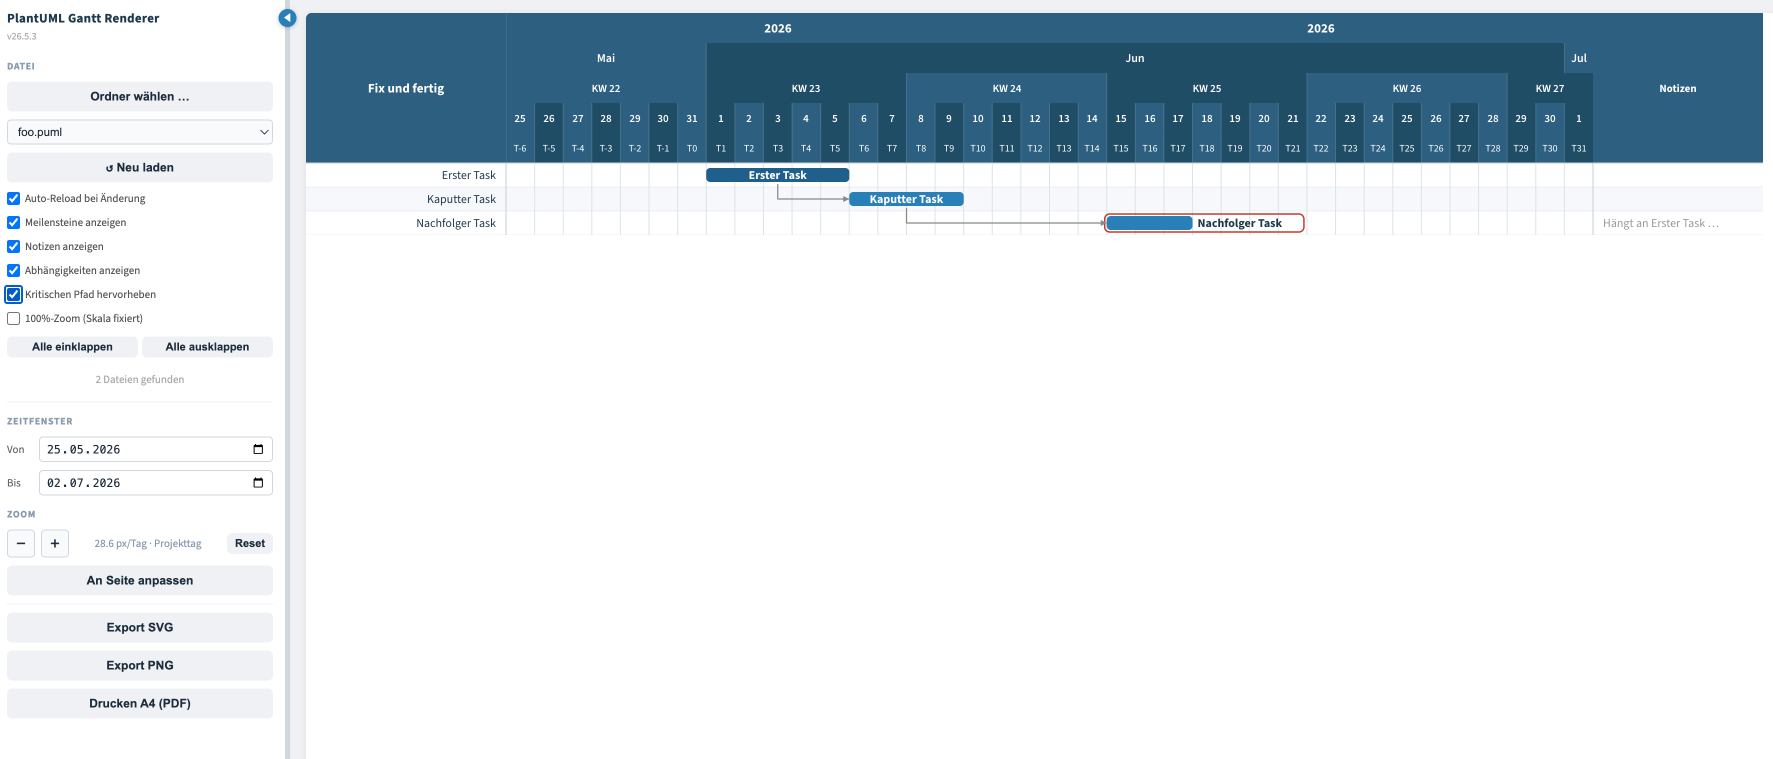
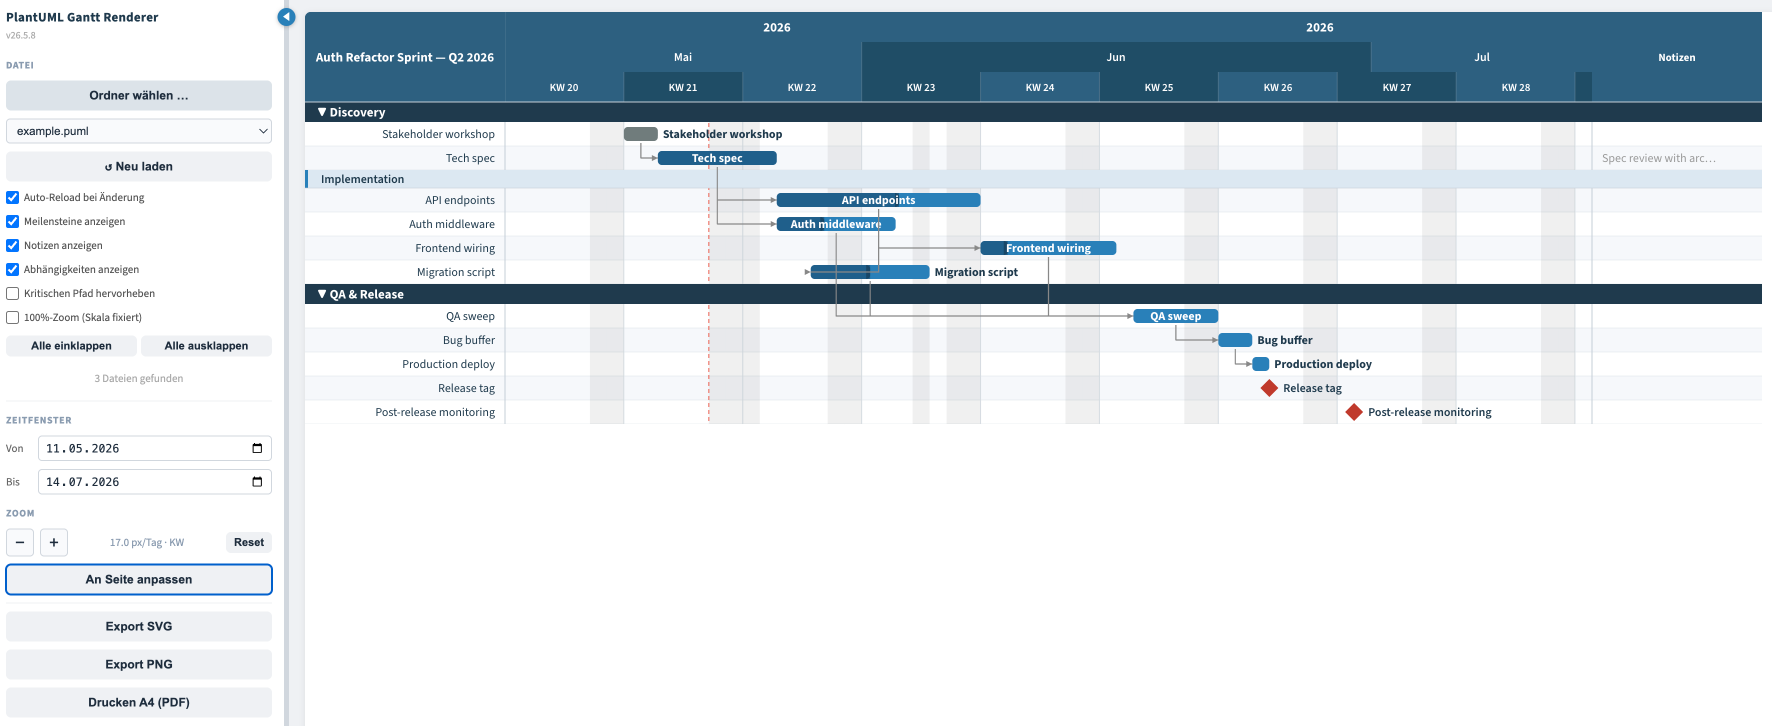
chore: refresh screenshot to v26.5.8 example — v26.5.9
New screenshot shows the renderer with example.puml loaded, today's line
landing inside the [Tech spec] bar (2026-05-20 to 2026-05-27).

diff --git a/plantuml-renderer.html b/plantuml-renderer.html
@@ -132,7 +132,7 @@ hr { border: none; border-top: 1px solid #eef1f4; }
 
   <div id="panel-left" style="width:290px">
     <h2>PlantUML Gantt Renderer</h2>
-    <div style="font-size:10px;color:#aaa;margin-top:-6px;margin-bottom:4px">v26.5.8</div>
+    <div style="font-size:10px;color:#aaa;margin-top:-6px;margin-bottom:4px">v26.5.9</div>
 
     <div class="section-label">Datei</div>
     <button class="btn btn-secondary" id="btn-pick-dir">Ordner wählen …</button>

diff --git a/README.en.md b/README.en.md
@@ -1,6 +1,6 @@
 # PlantUML Gantt Renderer
 
-> Current version: **v26.5.8** (2026-05-23) · German version: [README.md](README.md)
+> Current version: **v26.5.9** (2026-05-23) · German version: [README.md](README.md)
 
 Single-file web application that renders a subset of **PlantUML Gantt syntax** natively in the browser — no PlantUML server, no Java, no backend. Live-reload while editing the `.puml` source, critical-path highlighting, collapsible sections, reproducible export, A4 print.
 

diff --git a/README.md b/README.md
@@ -1,6 +1,6 @@
 # PlantUML Gantt Renderer
 
-> Aktuelle Version: **v26.5.8** (2026-05-23) · English version: [README.en.md](README.en.md)
+> Aktuelle Version: **v26.5.9** (2026-05-23) · English version: [README.en.md](README.en.md)
 
 Single-File-Webanwendung, die eine Teilmenge der **PlantUML-Gantt-Syntax** im Browser nativ rendert — ohne PlantUML-Server, ohne Java, ohne Backend. Live-Reload beim Editieren der `.puml`-Datei, kritischer-Pfad-Highlighting, klappbare Sections, reproduzierbarer Export, A4-Druck.
 